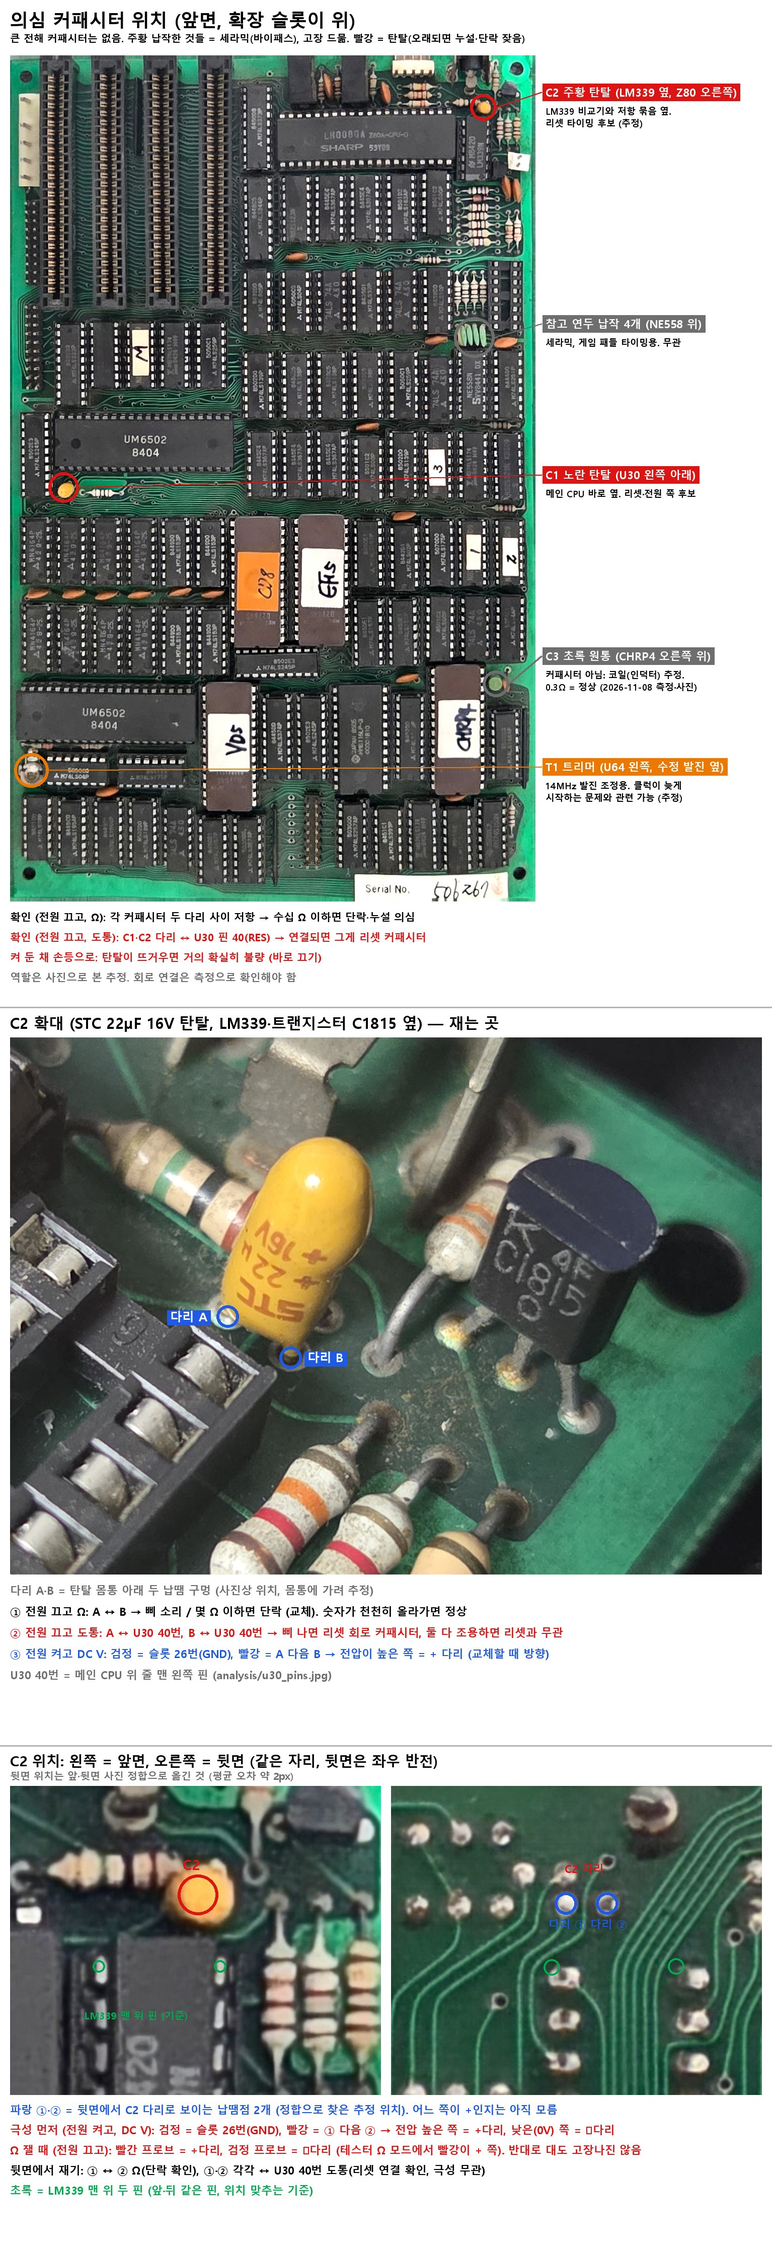
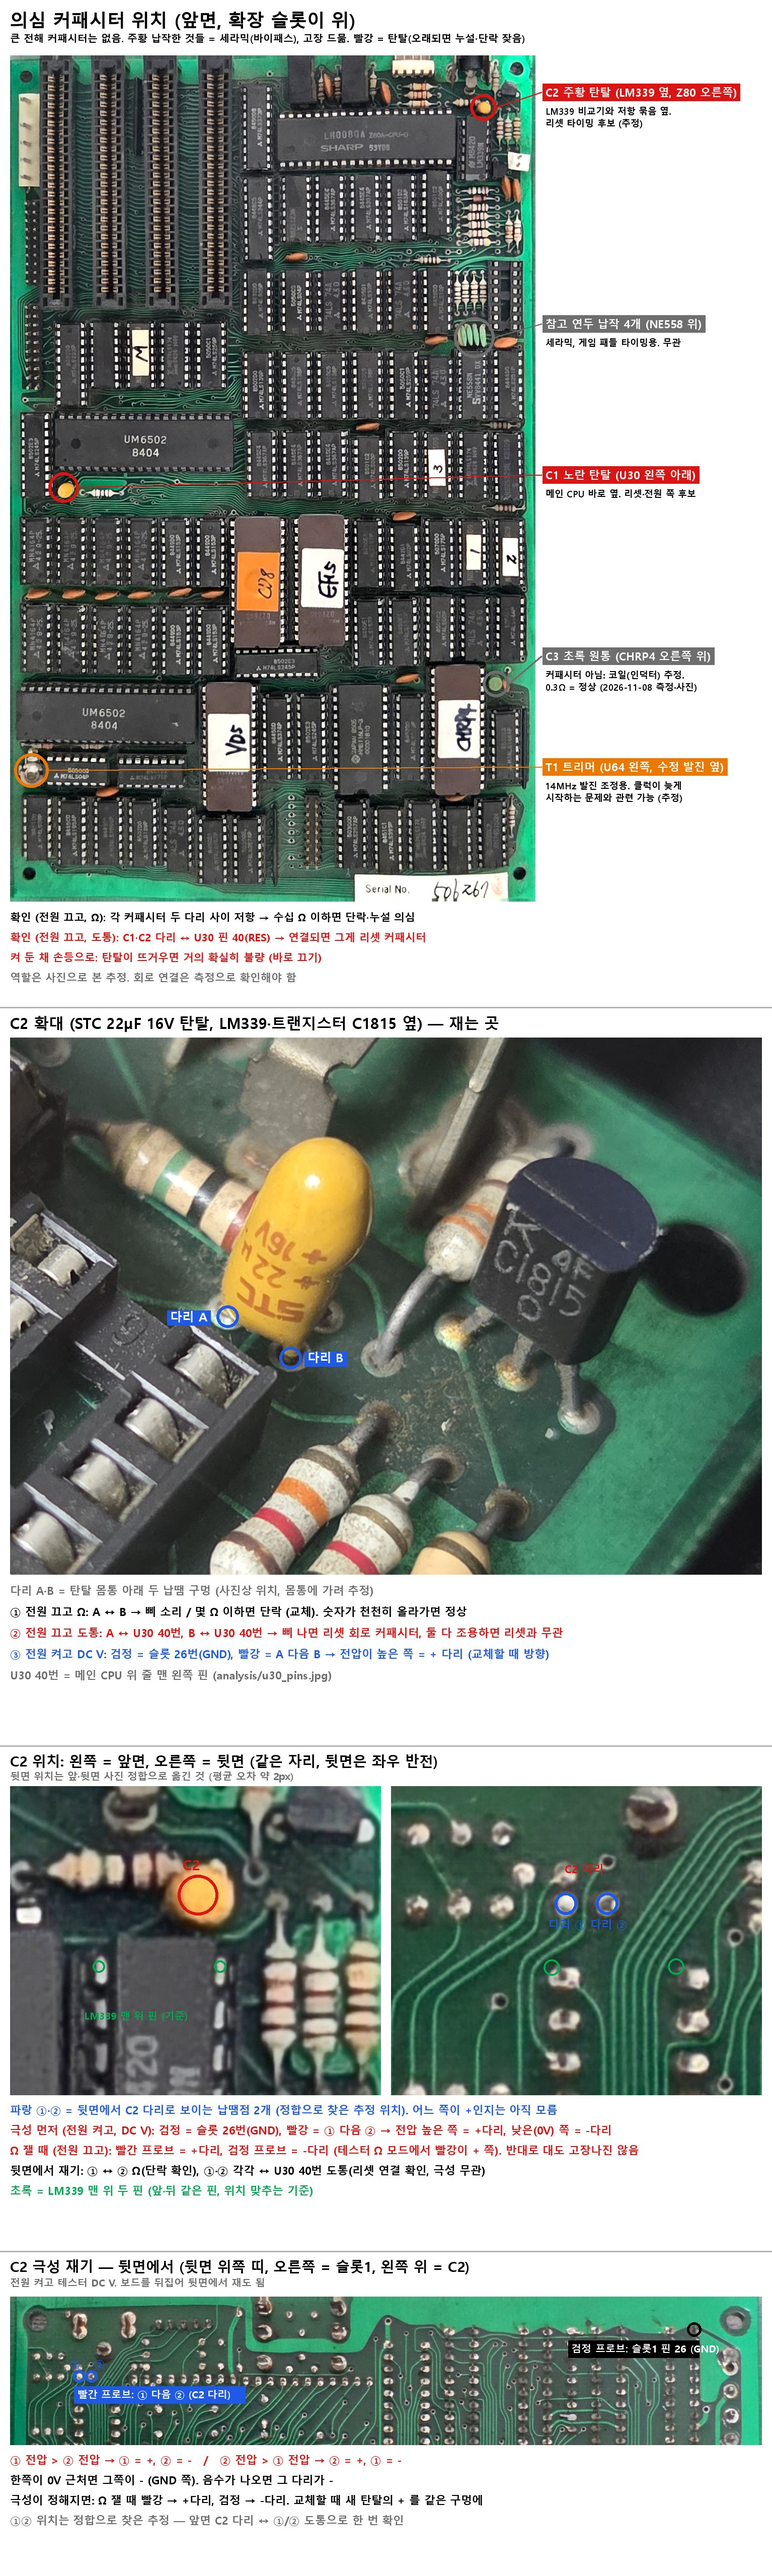
capacitor_suspects 맨 아래에 뒷면 C2 극성 재는 곳(①② 빨강, 슬롯1 핀 26 검정) 추가

diff --git a/tools/annotate_capacitors.py b/tools/annotate_capacitors.py
@@ -125,10 +125,45 @@ d.text((qx - 20, qy - 70), "C2 자리", font=F(22), fill=RED)
 y = oy + fcrop.height + 14
 for i, (t, c) in enumerate([
     ("파랑 ①·② = 뒷면에서 C2 다리로 보이는 납땜점 2개 (정합으로 찾은 추정 위치). 어느 쪽이 +인지는 아직 모름", BLU),
-    ("극성 먼저 (전원 켜고, DC V): 검정 = 슬롯 26번(GND), 빨강 = ① 다음 ② → 전압 높은 쪽 = +다리, 낮은(0V) 쪽 = −다리", RED),
-    ("Ω 잴 때 (전원 끄고): 빨간 프로브 = +다리, 검정 프로브 = −다리 (테스터 Ω 모드에서 빨강이 + 쪽). 반대로 대도 고장나진 않음", RED),
+    ("극성 먼저 (전원 켜고, DC V): 검정 = 슬롯 26번(GND), 빨강 = ① 다음 ② → 전압 높은 쪽 = +다리, 낮은(0V) 쪽 = -다리", RED),
+    ("Ω 잴 때 (전원 끄고): 빨간 프로브 = +다리, 검정 프로브 = -다리 (테스터 Ω 모드에서 빨강이 + 쪽). 반대로 대도 고장나진 않음", RED),
     ("뒷면에서 재기: ① ↔ ② Ω(단락 확인), ①·② 각각 ↔ U30 40번 도통(리셋 연결 확인, 극성 무관)", BLK),
     ("초록 = LM339 맨 위 두 핀 (앞·뒤 같은 핀, 위치 맞추는 기준)", GRN2),
+]):
+    d.text((20, y + i * 40), t, font=F(22), fill=c)
+cv = full
+
+# --- 맨 아래: 뒷면 위쪽 띠 전체 — 극성 재는 곳 (C2 ①②, 슬롯1 핀 26 GND) ---
+SX0, SY0, SX1, SY1 = 0, 0, 2121, 420                  # 뒷면 기준 사진 위쪽 띠
+ks = (cv.width - 40) / (SX1 - SX0)
+strip = bk.crop((SX0, SY0, SX1, SY1)).resize((int((SX1 - SX0) * ks), int((SY1 - SY0) * ks)), Image.LANCZOS)
+full = Image.new("RGB", (cv.width, cv.height + 100 + strip.height + 260), "white")
+full.paste(cv, (0, 0))
+oy = cv.height + 100
+full.paste(strip, (20, oy))
+d = ImageDraw.Draw(full)
+d.line((0, cv.height + 10, cv.width, cv.height + 10), fill=(180, 180, 180), width=3)
+d.text((20, cv.height + 20), "C2 극성 재기 — 뒷면에서 (뒷면 위쪽 띠, 오른쪽 = 슬롯1, 왼쪽 위 = C2)", font=F(28), fill=BLK)
+d.text((20, cv.height + 58), "전원 켜고 테스터 DC V. 보드를 뒤집어 뒷면에서 재도 됨", font=F(20), fill=GRY)
+S = lambda x, y: (20 + (x - SX0) * ks, oy + (y - SY0) * ks)
+# 슬롯1 핀 26 (뒷면: 슬롯1 오른쪽 줄 맨 위, slots_pin40_back 기준 핀 40 (1930,575)에서 14칸 위)
+gx, gy = S(1930, 93)
+d.ellipse((gx - 14, gy - 14, gx + 14, gy + 14), outline=BLK, width=5)
+d.rectangle((gx - 250, gy + 22, gx + 10, gy + 56), fill=BLK)
+d.text((gx - 244, gy + 24), "검정 프로브: 슬롯1 핀 26 (GND)", font=F(20), fill="white")
+for x, y, lab in legs:
+    px, py = S(x, y)
+    d.ellipse((px - 12, py - 12, px + 12, py + 12), outline=BLU, width=5)
+c1x, c1y = S(*legs[0][:2]); c2x, c2y = S(*legs[1][:2])
+d.rectangle((c1x - 10, c1y + 20, c1x + 330, c1y + 54), fill=BLU)
+d.text((c1x - 4, c1y + 22), "빨간 프로브: ① 다음 ② (C2 다리)", font=F(20), fill="white")
+d.text((c1x - 20, c1y - 40), "①", font=F(22), fill=BLU); d.text((c2x + 6, c2y - 40), "②", font=F(22), fill=BLU)
+y = oy + strip.height + 14
+for i, (t, c) in enumerate([
+    ("① 전압 > ② 전압 → ① = +, ② = -   /   ② 전압 > ① 전압 → ② = +, ① = -", RED),
+    ("한쪽이 0V 근처면 그쪽이 - (GND 쪽). 음수가 나오면 그 다리가 -", BLK),
+    ("극성이 정해지면: Ω 잴 때 빨강 → +다리, 검정 → -다리. 교체할 때 새 탄탈의 + 를 같은 구멍에", BLK),
+    ("①② 위치는 정합으로 찾은 추정 — 앞면 C2 다리 ↔ ①/② 도통으로 한 번 확인", GRY),
 ]):
     d.text((20, y + i * 40), t, font=F(22), fill=c)
 cv = full
